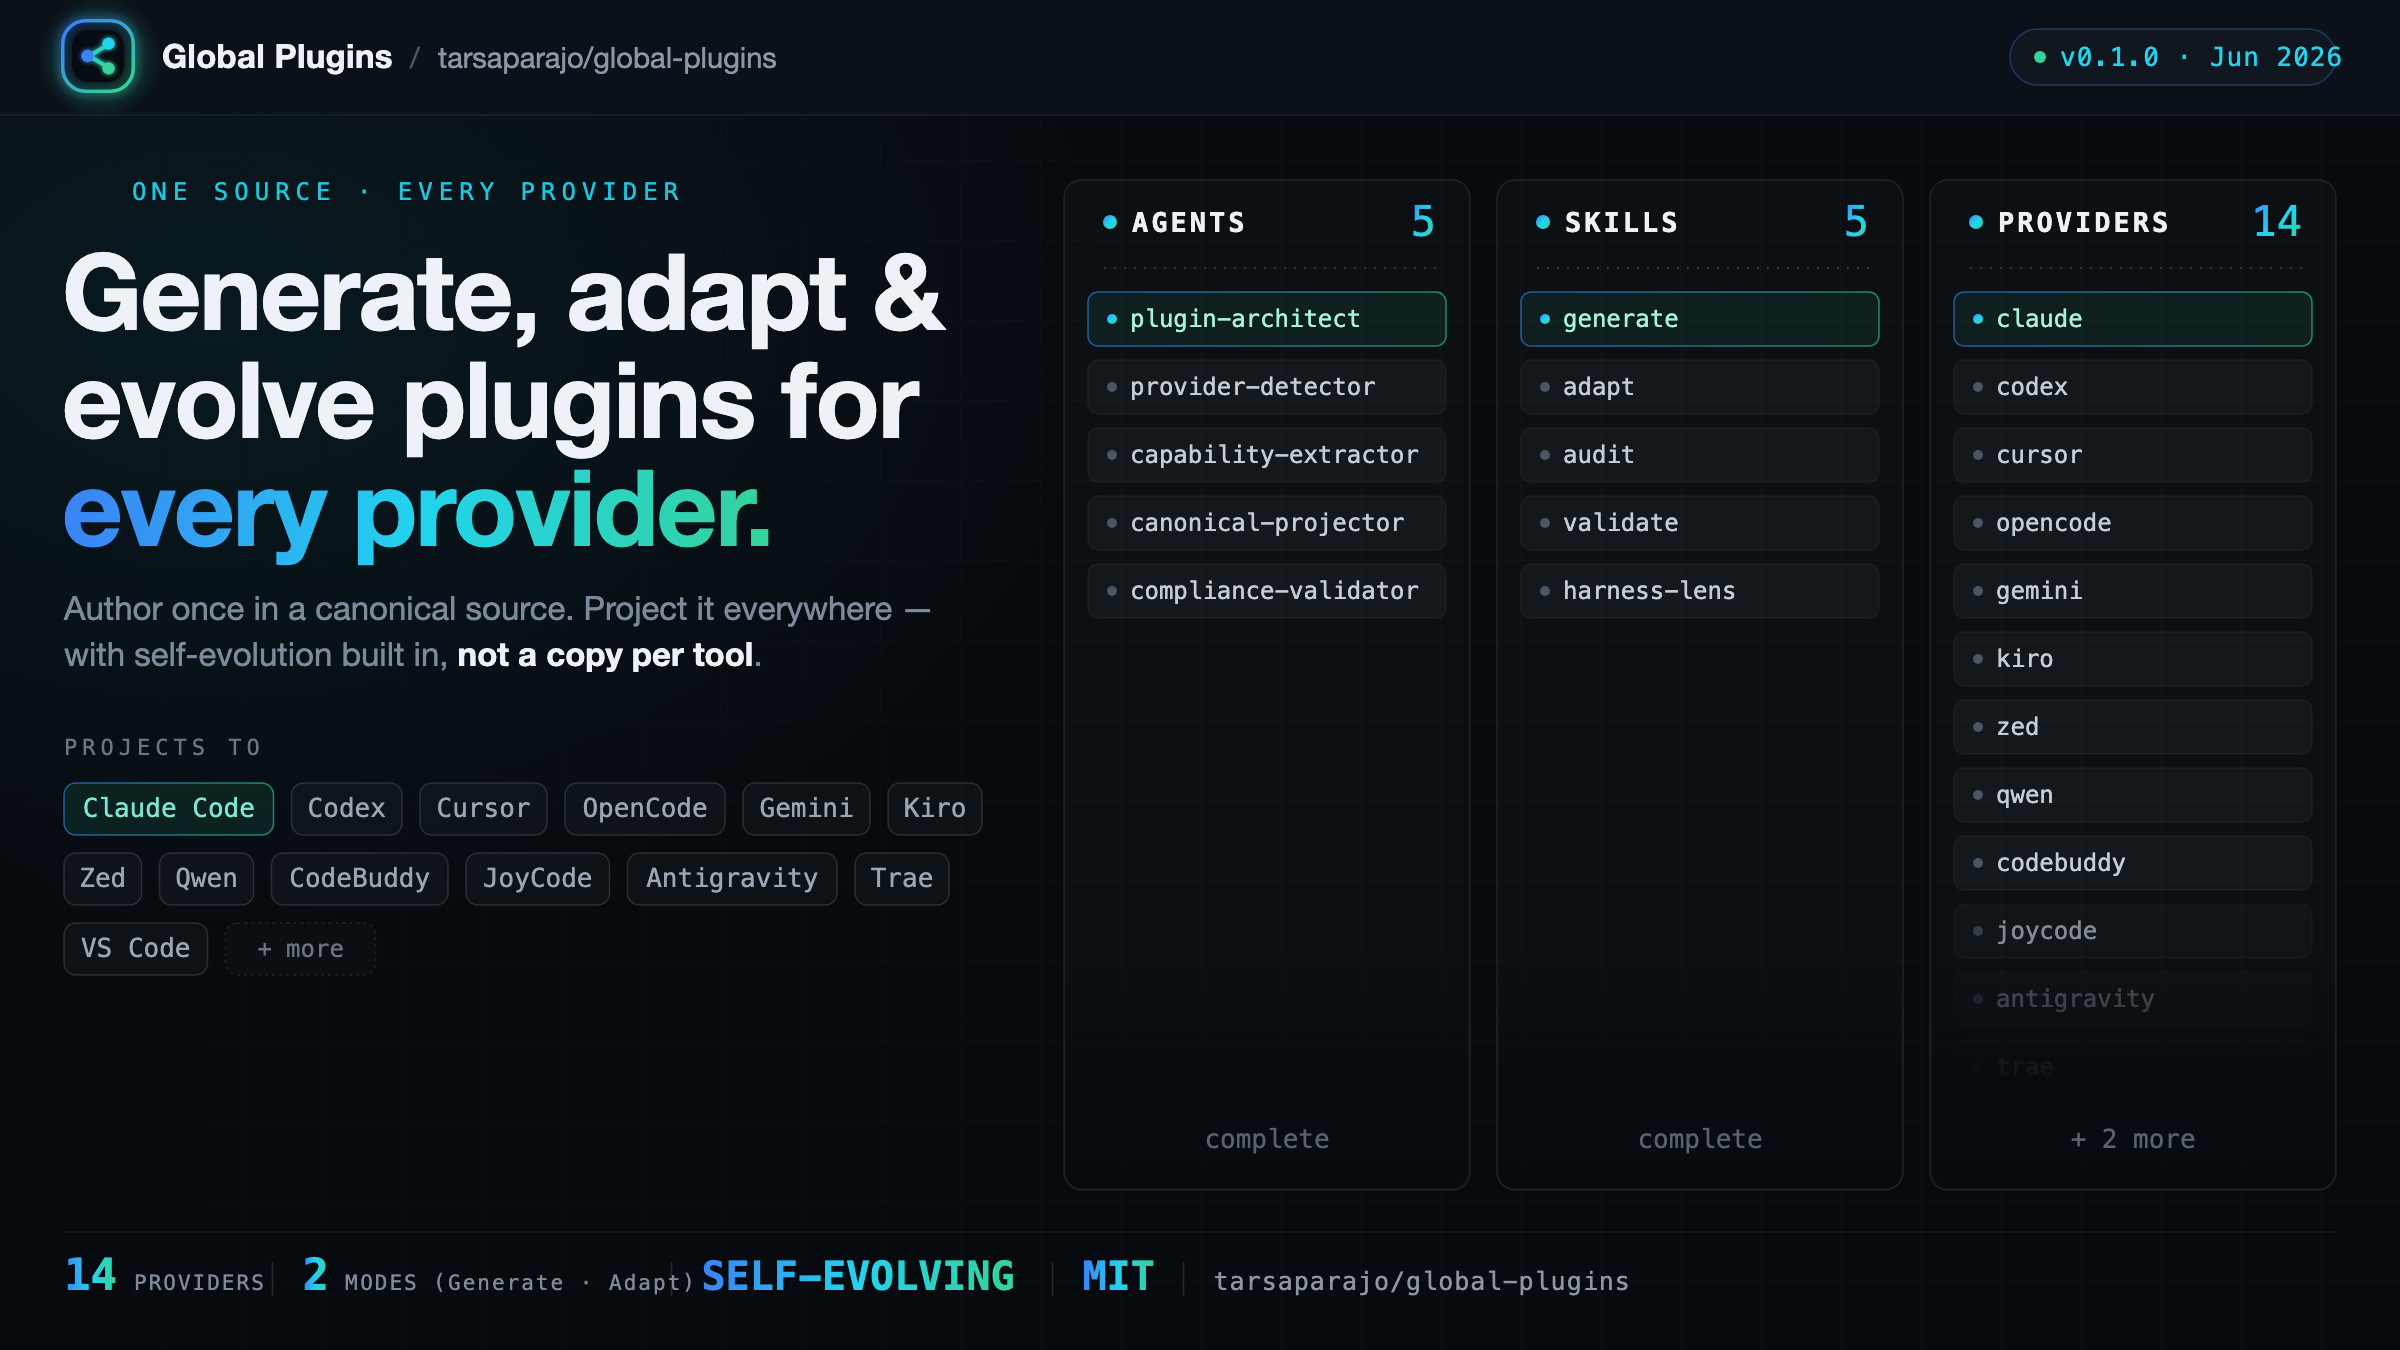
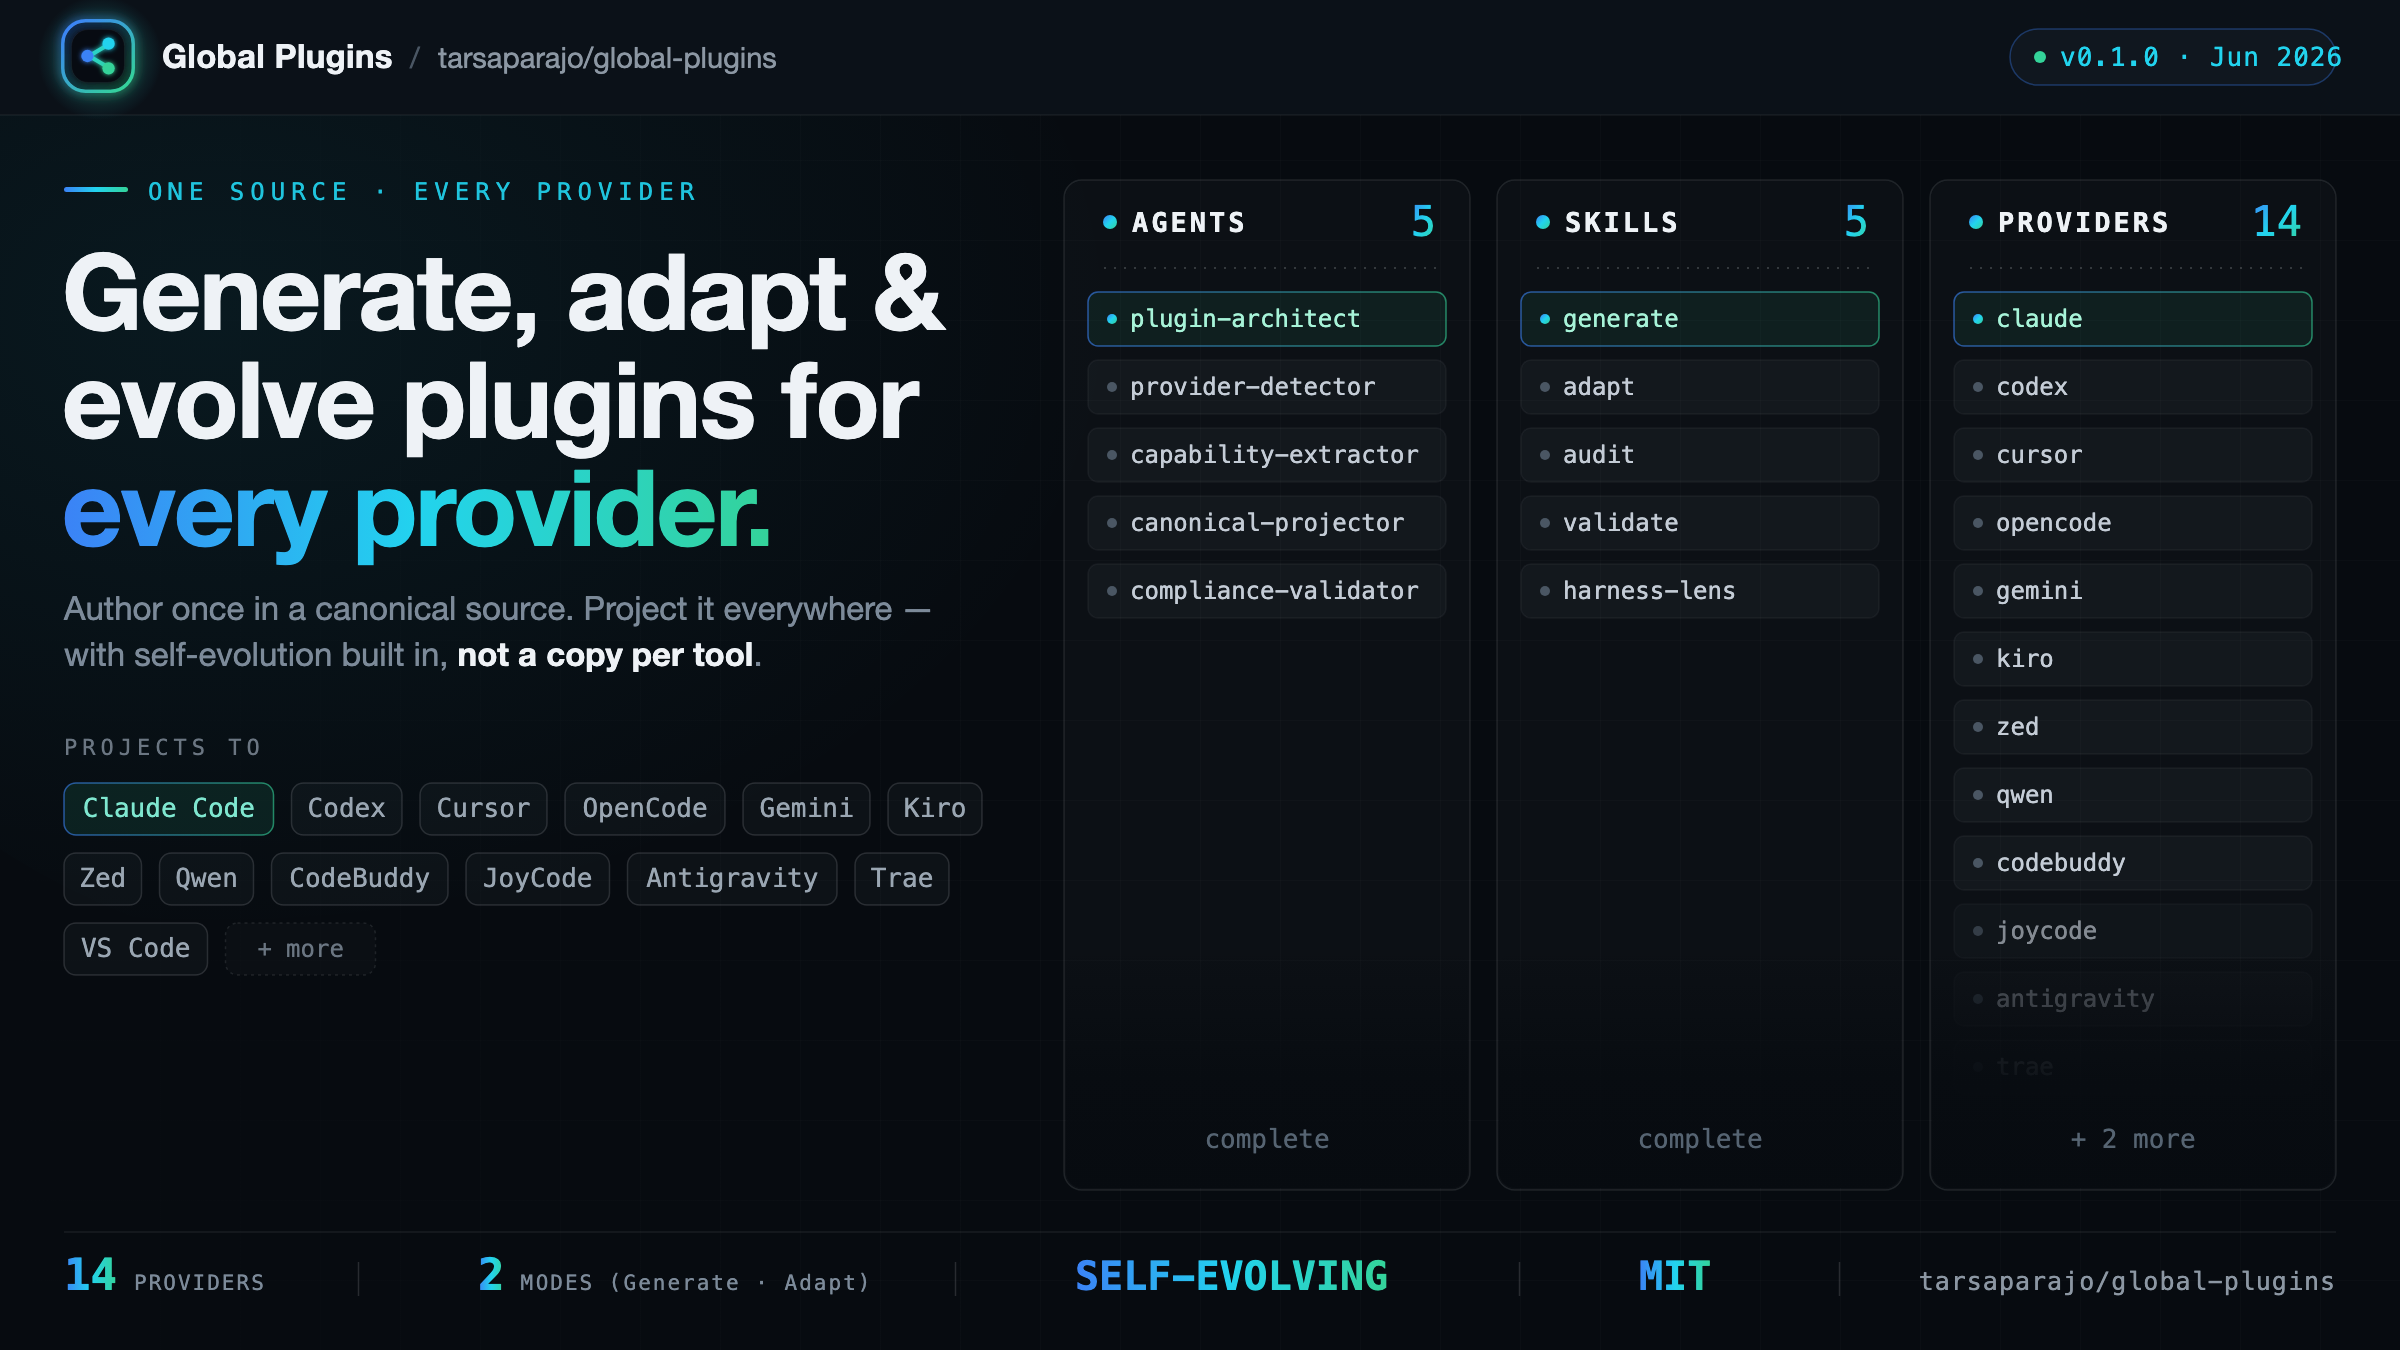
Justify the hero footer and add the gradient eyebrow tick
Distribute the footer metrics evenly across the full width (space-between with
centered separators) and add the gradient tick to the left of the eyebrow line.

Changed region(s): [[0.125, 0.9333, 0.7188, 0.9644], [0.0312, 0.1244, 0.2812, 0.1556], [0.8125, 0.9333, 0.9688, 0.9644]]

diff --git a/assets/build-hero.js b/assets/build-hero.js
@@ -172,9 +172,9 @@ svg += `<rect x="2010" y="29" width="326" height="56" rx="28" fill="#10171f" str
 svg += `<circle cx="2040" cy="57" r="6" fill="#34d399"/>`;
 svg += `<text x="2060" y="66" font-family="${MONO}" font-size="26" letter-spacing="1" fill="#22d3ee">v0.1.0 · Jun 2026</text>`;
 
-// Left column
-svg += `<line x1="66" y1="191" x2="114" y2="191" stroke="url(#accentH)" stroke-width="3"/>`;
-svg += `<text x="132" y="200" font-family="${MONO}" font-size="24" letter-spacing="6" fill="#22d3ee" opacity="0.92">ONE SOURCE · EVERY PROVIDER</text>`;
+// Left column — eyebrow with a gradient tick to its left
+svg += `<rect x="64" y="187" width="64" height="5" rx="2.5" fill="url(#accentH)"/>`;
+svg += `<text x="148" y="200" font-family="${MONO}" font-size="24" letter-spacing="6" fill="#22d3ee" opacity="0.92">ONE SOURCE · EVERY PROVIDER</text>`;
 svg += `<text x="62" y="330" font-family="${SANS}" font-size="106" font-weight="bold" letter-spacing="-2" fill="${TEXT}">Generate, adapt &amp;</text>`;
 svg += `<text x="62" y="438" font-family="${SANS}" font-size="106" font-weight="bold" letter-spacing="-2" fill="${TEXT}">evolve plugins for</text>`;
 svg += `<text x="62" y="546" font-family="${SANS}" font-size="106" font-weight="bold" letter-spacing="-2" fill="url(#accentH)">every provider.</text>`;
@@ -198,15 +198,38 @@ svg += card(1064, 'AGENTS', 5, ['plugin-architect', 'provider-detector', 'capabi
 svg += card(1497, 'SKILLS', 5, ['generate', 'adapt', 'audit', 'validate', 'harness-lens']);
 svg += card(1930, 'PROVIDERS', 14, ['claude', 'codex', 'cursor', 'opencode', 'gemini', 'kiro', 'zed', 'qwen', 'codebuddy', 'joycode', 'antigravity', 'trae', 'vscode']);
 
-// Footer: metrics separated by vertical rules
+// Footer: five groups justified (space-between) across the full content width,
+// with vertical separators centered in each gap.
 svg += `<line x1="64" y1="1232" x2="2336" y2="1232" stroke="rgba(238,242,246,0.08)" stroke-width="1.5"/>`;
-let fx = 64;
-let m;
-m = metric(fx, '14', 'PROVIDERS', 'num'); svg += m.svg; fx = m.next + 26; svg += separator(fx); fx += 30;
-m = metric(fx, '2', 'MODES (Generate · Adapt)', 'num'); svg += m.svg; fx = m.next + 26; svg += separator(fx); fx += 30;
-m = metric(fx, 'SELF-EVOLVING', '', 'grad'); svg += m.svg; fx = m.next + 26; svg += separator(fx); fx += 30;
-m = metric(fx, 'MIT', '', 'grad'); svg += m.svg; fx = m.next + 26; svg += separator(fx); fx += 30;
-svg += `<text x="${fx}" y="1290" font-family="${MONO}" font-size="25" letter-spacing="1" fill="#8c97a3">tarsaparajo/global-plugins</text>`;
+(function footer() {
+  const L = 64;
+  const R = 2336;
+  // Each group: estimated rendered width (for gap distribution).
+  const groups = [
+    { kind: 'num', big: '14', label: 'PROVIDERS', w: 14 * 2 + 9 * 13 + 30 },
+    { kind: 'num', big: '2', label: 'MODES (Generate · Adapt)', w: 1 * 28 + 24 * 12.5 + 30 },
+    { kind: 'grad', big: 'SELF-EVOLVING', w: 13 * 25 },
+    { kind: 'grad', big: 'MIT', w: 3 * 27 },
+    { kind: 'repo', big: 'tarsaparajo/global-plugins', w: 26 * 14.5 },
+  ];
+  const totalW = groups.reduce((a, g) => a + g.w, 0);
+  const gap = (R - L - totalW) / (groups.length - 1); // space-between
+  let x = L;
+  groups.forEach((g, i) => {
+    if (g.kind === 'repo') {
+      // right-align the repo to the content right edge
+      svg += `<text x="${R}" y="1290" text-anchor="end" font-family="${MONO}" font-size="25" letter-spacing="1" fill="#8c97a3">${esc(g.big)}</text>`;
+    } else {
+      const mm = metric(x, g.big, g.label || '', g.kind);
+      svg += mm.svg;
+    }
+    if (i < groups.length - 1) {
+      const sepX = x + g.w + gap / 2;
+      svg += separator(sepX);
+    }
+    x += g.w + gap;
+  });
+})();
 
 svg += `</svg>`;
 